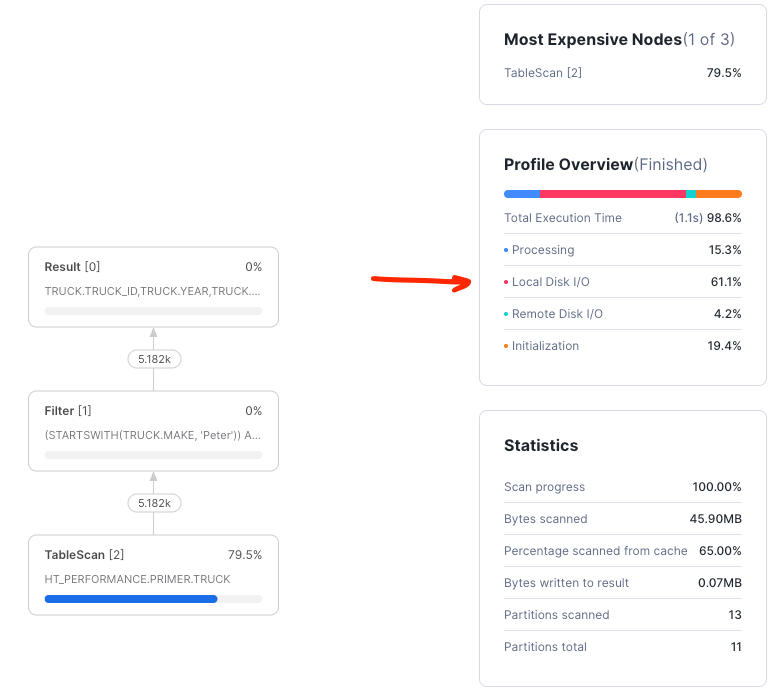
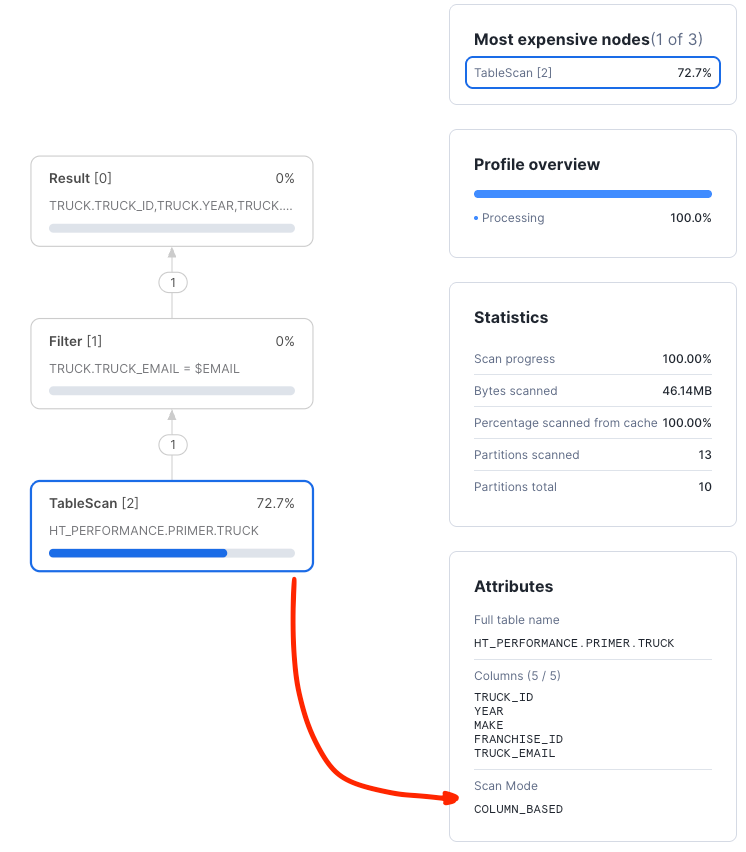
Making edits per Phil

diff --git a/site/sfguides/src/hybrid_tables_performance_optimization_primer/hybrid_tables_performance_optimization_primer.md b/site/sfguides/src/hybrid_tables_performance_optimization_primer/hybrid_tables_performance_optimization_primer.md
@@ -119,7 +119,7 @@ CREATE OR REPLACE HYBRID TABLE TRUCK (
     YEAR NUMBER(38,0) NOT NULL,
     MAKE VARCHAR(250) NOT NULL,
     FRANCHISE_ID NUMBER(38,0) NOT NULL,
-    TRUCK_EMAIL VARCHAR NOT NULL UNIQUE,
+    TRUCK_EMAIL VARCHAR NOT NULL,
     PRIMARY KEY (TRUCK_ID) 
 )
 AS SELECT
@@ -151,6 +151,7 @@ The screen gives you basic information about the query.
 
 >aside positive
 > **NOTE:** As this query was executed on Snowsight, compile and execution times will be longer than connected driver based queries.
+> Review [hybrid table best practices](https://docs.snowflake.com/en/user-guide/tables-hybrid-best-practices) to learn more.
 >
 
 Clicking on the "Query Profile" button:
@@ -182,55 +183,114 @@ push down the predicate and is the fastest and most efficient way to execute the
 Instead of querying the table using the primary key, let's query the table using a column that is **not** indexed and see what
 the resulting query plan looks like.
 ```sql
+SET EMAIL = (SELECT ANY_VALUE(TRUCK_EMAIL) FROM TRUCK);
+    
 SELECT *
 FROM TRUCK
-WHERE MAKE LIKE 'Peter%' AND YEAR IN (2000, 2001);
+WHERE TRUE
+    AND TRUCK_EMAIL = $EMAIL;
 ```
-We can see from the query profile screen that the query plan looks far different. Much time is spent on disk I/O:
+We can see from the query profile screen that the query plan looks far different. Much time is spent on the table scan and it
+is the most expensive node in the plan:
 <img src="assets/explore_40.png"/>
 
 Looking at the "TableScan" node, we can clearly see that the scan was `COLUMN_BASED` and processed many partitions with lots of data. 
 The optimizer was not able to push down any access predicates against an index.
 
-<img src="assets/explore_50.png"/>
-
 ### Add a secondary index
 Clearly, the above query is not optimal. A secondary index can help the query run faster. Let's create a secondary index
-and use it to explore the query improvement. Best practices tell us to create indexes during table creation time but for testing,
-creating a secondary index on an existing table is convenient. The index build will take a bit of time and the index
-will not be used until the status is `ACTIVE`. This example query for status uses a [flow operator](https://docs.snowflake.com/en/sql-reference/operators-flow):
+and use it to explore the query improvement:
 ```sql
-CREATE INDEX IF NOT EXISTS IDX_TRUCK_YEAR ON TRUCK (YEAR, MAKE);
--- USING THE FLOW SYNTAX, WATCH THE STATUS OF THE INDEX CHANGE FROM 'BUILD IN PROGRESS` TO 'ACTIVE'
-SHOW INDEXES ->> 
-     SELECT "status", "name", "created_on", "table", "columns" 
-     FROM $1 IDX WHERE TRUE AND "name" = 'IDX_TRUCK_YEAR';
+CREATE OR REPLACE HYBRID TABLE TRUCK (
+    TRUCK_ID NUMBER(38,0) NOT NULL,
+    YEAR NUMBER(38,0) NOT NULL,
+    MAKE VARCHAR(250) NOT NULL,
+    FRANCHISE_ID NUMBER(38,0) NOT NULL,
+    TRUCK_EMAIL VARCHAR NOT NULL UNIQUE,
+    PRIMARY KEY (TRUCK_ID),
+    INDEX IDX_TRUCK_EMAIL (TRUCK_EMAIL)
+)
+AS SELECT
+    SEQ4(),
+    UNIFORM(1970, 2025, RANDOM()),
+    ARRAY_CONSTRUCT( 'Freightliner', 'Peterbilt', 'Kenworth', 'Volvo Trucks', 'Mack', 'International (Navistar)', 'Western Star')[UNIFORM(0,6, RANDOM())],
+    UNIFORM(1, 250, RANDOM()),
+    RANDSTR(8, RANDOM()) || '@sf-quickstart'
+FROM TABLE(GENERATOR(ROWCOUNT => 1000000)) -- WE NEED ENOUGH RECORDS FOR REASONABLE TESTING OTHERWISE EVERYTHING IS IN-MEMORY
+;
+-- SEE WHAT THE RESULTS LOOK LIKE
+SELECT * FROM TRUCK LIMIT 10;
 ```
-Once the index is `ACTIVE` we can re-run the query and show that it is using the newly created index:
+Once the table is created we can re-run the query and show that it is using the newly created index:
 ```sql
+SET EMAIL = (SELECT ANY_VALUE(TRUCK_EMAIL) FROM TRUCK);
+
 SELECT *
 FROM TRUCK
 WHERE TRUE
-    AND MAKE = 'Peterbilt'
-    AND YEAR IN (2000, 2001);
+  AND TRUCK_EMAIL = $EMAIL;
 ```
 
 Using the index results in a much better query plan that uses the index we created:
-<img src="assets/explore_60.png"/>
+<img src="assets/explore_61.png"/>
 
-This particular index likely has good enough cardinality that using just the first column of the index will also produce a solid query plan.
-While more time is spent returning the results, the partial index is still used to efficiently fetch data from storage.
+### Add a UNIQUE constraint
+Hybrid tables includes capability to add and enforce UNIQUE constraints to a column. Creating a constraint also creates an index
+so let's explore a multi-column constraint. Recreate the table adding the UNIQUE constraint:
+
+```sql
+CREATE OR REPLACE HYBRID TABLE TRUCK (
+    TRUCK_ID NUMBER(38,0) NOT NULL,
+    YEAR NUMBER(38,0) NOT NULL,
+    MAKE VARCHAR(250) NOT NULL,
+    FRANCHISE_ID NUMBER(38,0) NOT NULL,
+    TRUCK_EMAIL VARCHAR NOT NULL,
+    PRIMARY KEY (TRUCK_ID),
+    INDEX IDX_TRUCK_EMAIL (TRUCK_EMAIL),
+    CONSTRAINT UNIQUE_TRUCK_EMAIL UNIQUE (FRANCHISE_ID, TRUCK_EMAIL)
+)
+AS SELECT
+    SEQ4(),
+    UNIFORM(1970, 2025, RANDOM()),
+    ARRAY_CONSTRUCT( 'Freightliner', 'Peterbilt', 'Kenworth', 'Volvo Trucks', 'Mack', 'International (Navistar)', 'Western Star')[UNIFORM(0,6, RANDOM())],
+    UNIFORM(1, 250, RANDOM()),
+    RANDSTR(8, RANDOM()) || '@sf-quickstart'
+FROM TABLE(GENERATOR(ROWCOUNT => 1000000)) -- WE NEED ENOUGH RECORDS FOR REASONABLE TESTING OTHERWISE EVERYTHING IS IN-MEMORY
+;
+-- SEE WHAT THE RESULTS LOOK LIKE
+SELECT * FROM TRUCK LIMIT 10;
+```
+
+The UNIQUE constraint automatically builds an index that can be used in a query predicate. Let's find a truck by `FRANCHISE_ID` and `TRUCK_EMAIL`:
+
+```sql
+SET (FRANCHISE, EMAIL) = (SELECT FRANCHISE_ID, TRUCK_EMAIL FROM TRUCK SAMPLE (1 ROWS));
+    
+SELECT *
+FROM TRUCK
+WHERE TRUE
+    AND FRANCHISE_ID = $FRANCHISE
+    AND TRUCK_EMAIL = $EMAIL
+;
+```
+
+<img src="assets/explore_63.png"/>
+
+
+This particular index likely has good cardinality such that using just the first column of the index will also produce a solid query plan.
+While more time is spent returning the results, the partial index is still used to efficiently fetch data from storage:
 ```sql
 SELECT *
 FROM TRUCK
 WHERE TRUE
-    --AND MAKE = 'Peterbilt'
-    AND YEAR IN (2000, 2001);
+  AND FRANCHISE_ID = $FRANCHISE
+  -- AND TRUCK_EMAIL = $EMAIL
+;
 ```
-<img src="assets/explore_70.png"/>
+<img src="assets/explore_65.png"/>
 
 >aside positive
-> **NOTE:** Both primary keys and secondary indexes should be accessed using their configured columns from left to right.
+> **NOTE:** Both primary keys and other indexes should be accessed using their configured columns from left to right.
 > _Skipping_ a column will force the query planner to only use the columns referenced in the predicate before the
 > skipped column. See [best practices](https://docs.snowflake.com/en/user-guide/tables-hybrid-best-practices) for further details.
 >
